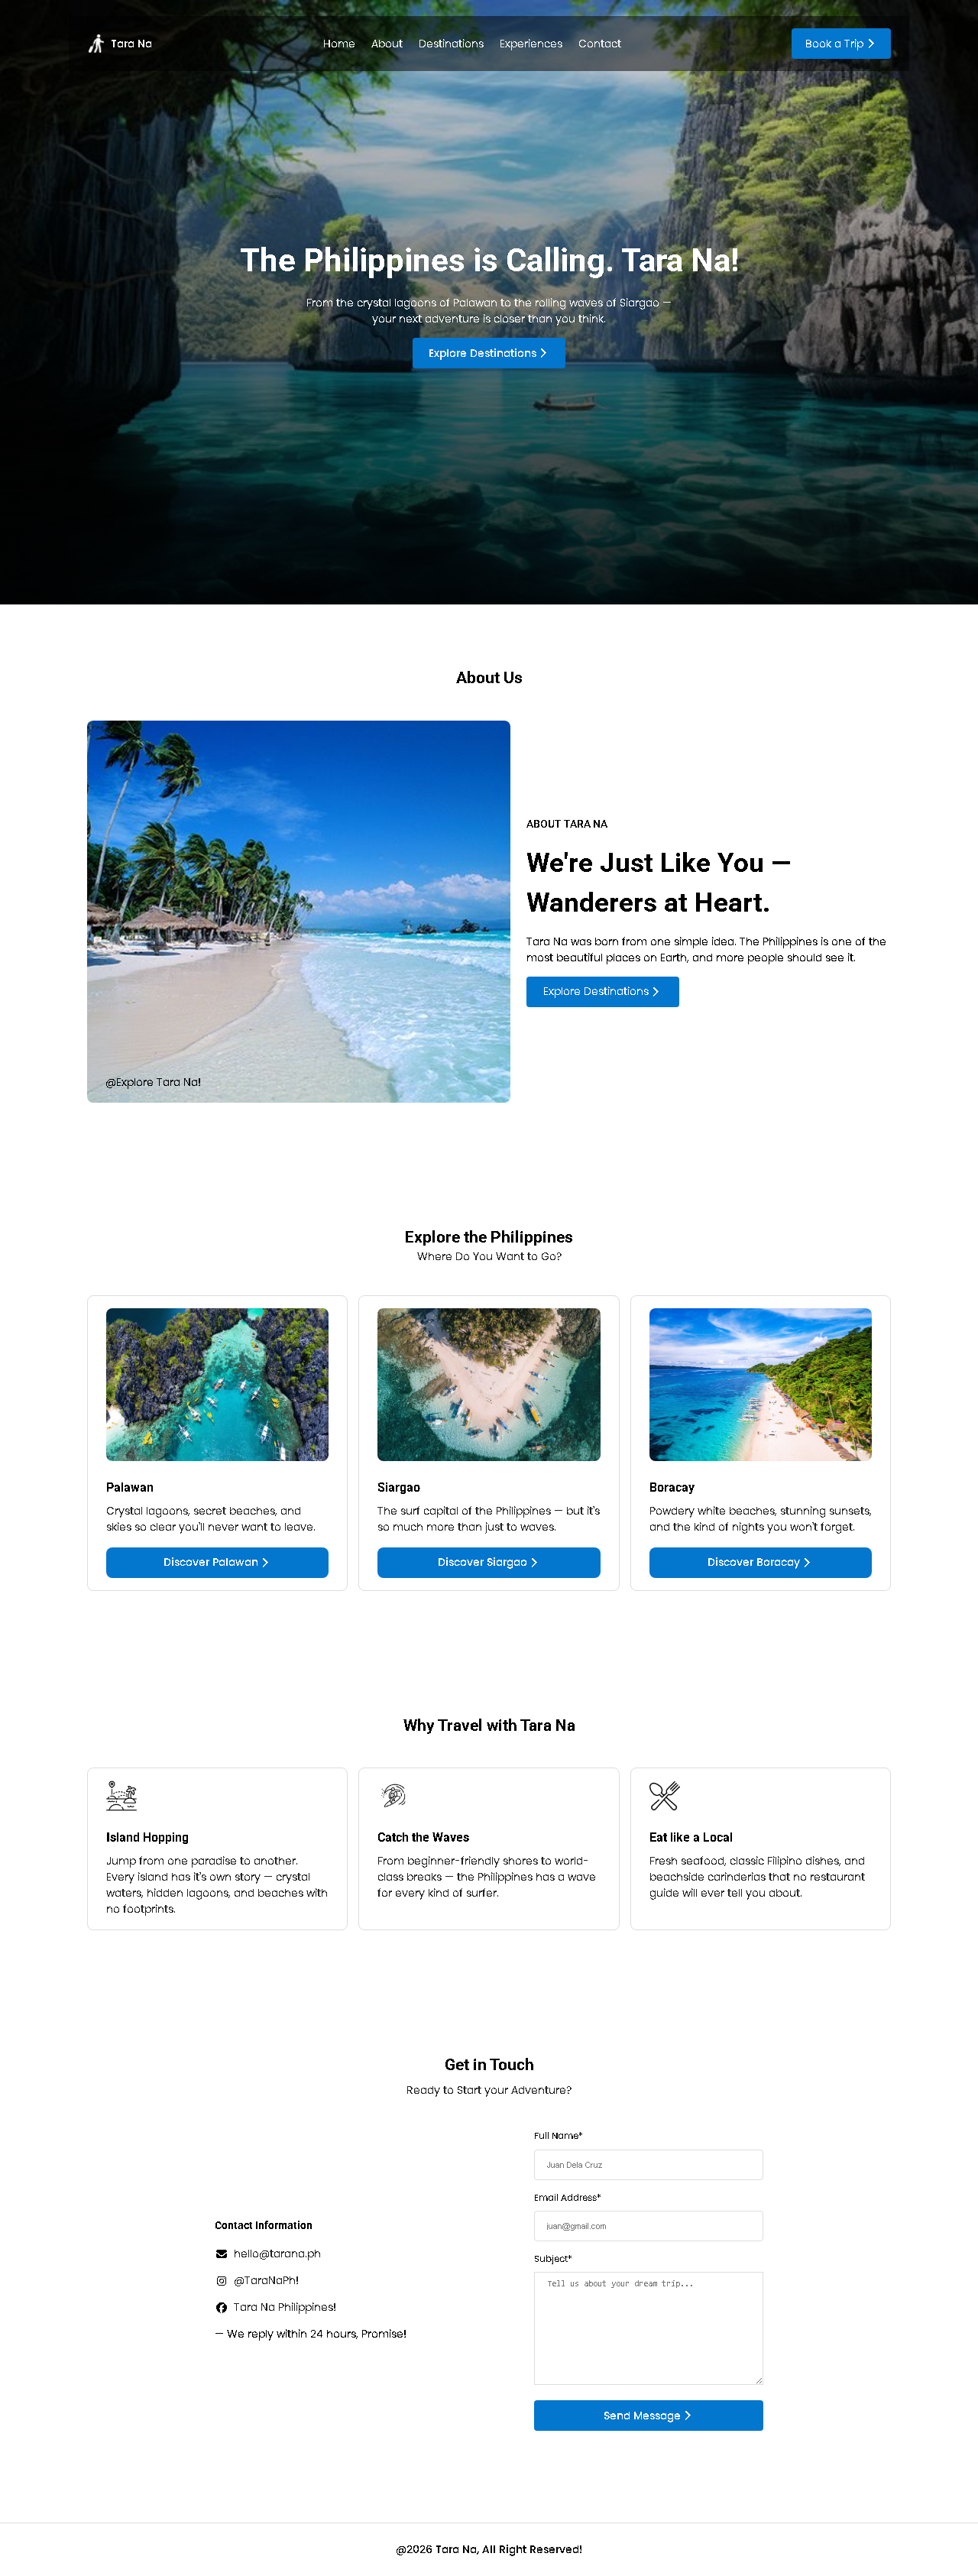
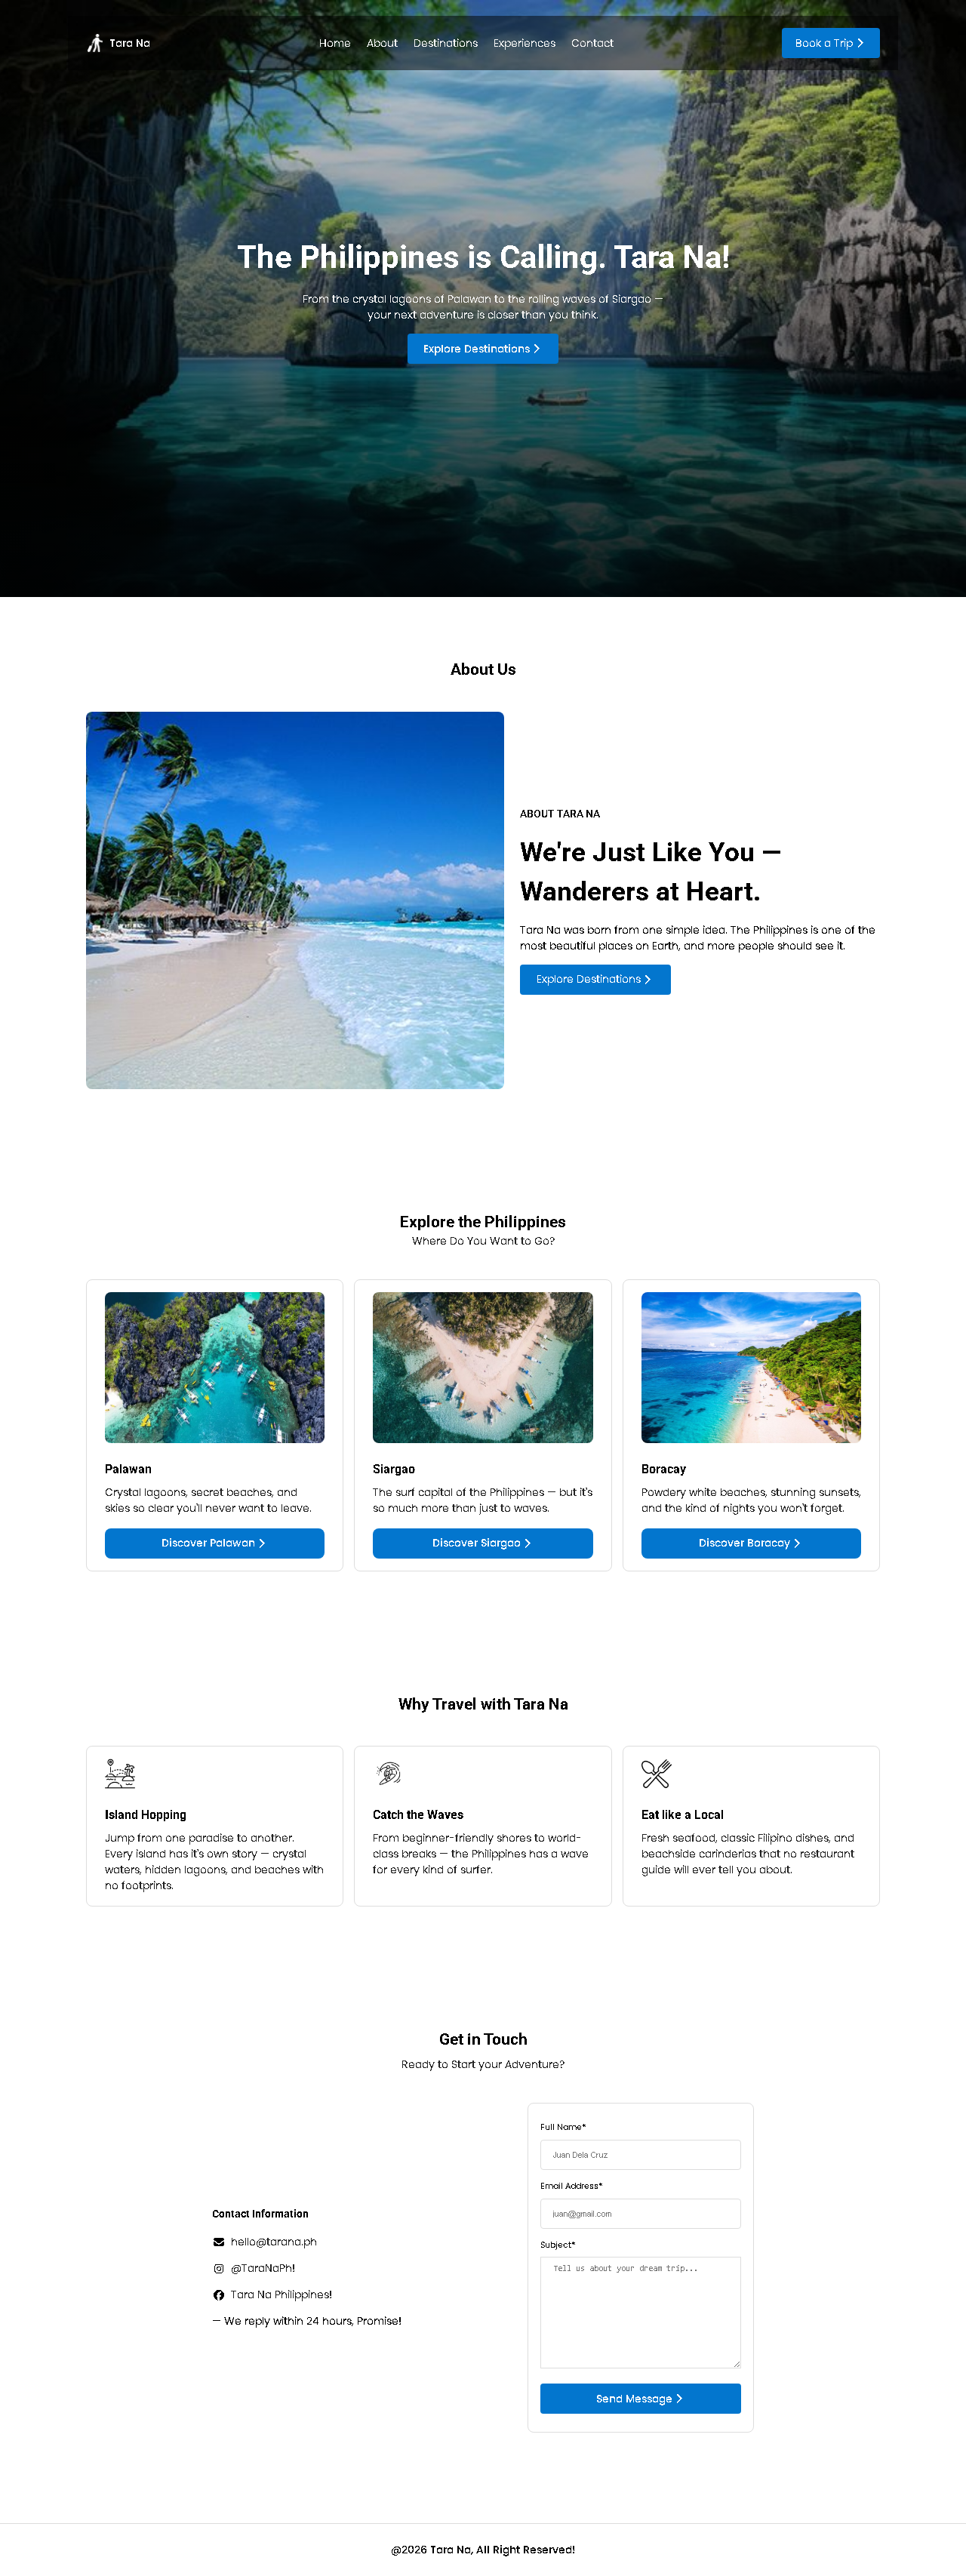
Update readme

diff --git a/README.md b/README.md
@@ -21,7 +21,11 @@ A Philippines-themed travel website built to inspire wanderers and adventure to 
 
 ## Screenshots
 
-![Screenshots](Assets/Screenshots/desktop.png)
+[Desktop](Assets/Screenshots/desktop.png)
+
+[Tablet](Assets/Screenshots/tablet.png)
+
+[Mobile](Assets/Screenshots/mobile.png)
 
 ## Author
 